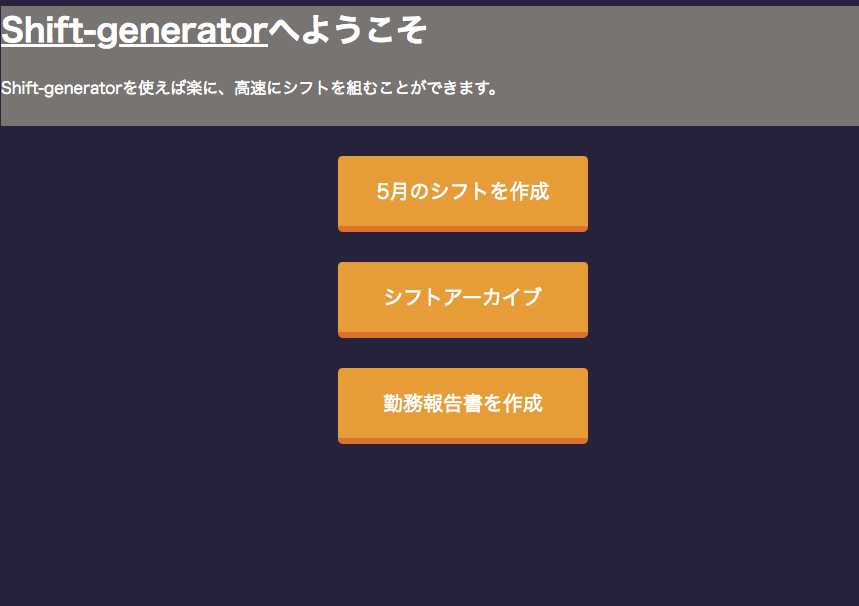
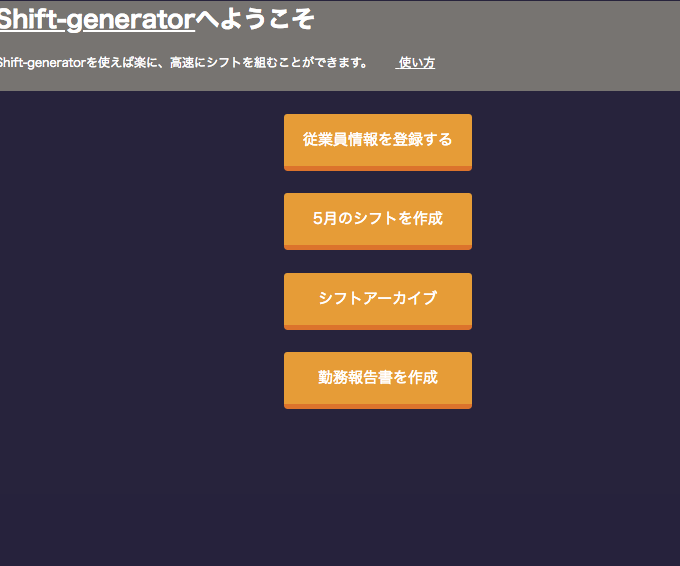
added and changed some files to send the shift that you made

Changed region(s): [[0.0, 0.0, 1.0, 0.7509], [0.5868, 0.0901, 0.6485, 0.1201]]

diff --git a/giovannitheproject/djsg/templates/djsg/register.html b/giovannitheproject/djsg/templates/djsg/register.html
@@ -13,37 +13,38 @@
 <p> ・セレクトボックス</p>
 
 <select name="sel_person" size="1" class="tgform" style="width:300px; margin-left: 20%" id="tgselect">
+    <option>ここに名前があれば登録済みです</option>
     {% for i in d %}
     <option value="{{i}}" >{{i}}</option>
     {% endfor %}
     </select>
 </div>
 
-
-<div class="tcsub">
-	<p> ・従業員情報登録フォーム</p>
+<p> ・従業員情報登録フォーム</p>
+<div class="tcsub" style="margin-left:7%;">
+	
 	
 <form action="timecard" method="post">
 	{% csrf_token %}
 	<div class="content">
         <h3>名前</h3>
           
-            姓 <input type="text" name="name" id="pname" />
+            姓 <input type="text" name="name" id="pname" required="required" placeholder="苗字を入力"/>
         
           
-            名 <input type="text" name="f_name" id="p_fname"/>
+            名 <input type="text" name="f_name" id="p_fname" required="required" placeholder="下の名前を入力"/>
         
     </div>
     <div class="content">
     	<h3>社員番号</h3>
     
-      		<input type="text" name="w_num" id="w_num" />
+      		<input type="text" name="w_num" id="w_num" size="30" required="required" pattern="[0-9][0-9][0-9][0-9][0-9][0-9][0-9]" placeholder="半角数字で社員番号を入力" />
     
     </div>
     <div class="content">
         <h3>メールアドレス</h3>
     
-         	<input type="text" name="mail" size="40" id="mail"/>
+         	<input type="mail" name="mail" size="40" id="mail" required="required" placeholder="読売のメールアドレスを入力"/>
       
     </div>
     	<input type="submit" value="登録する" name="b2" id ="tgsub" />

diff --git a/giovannitheproject/djsg/templates/djsg/index.html b/giovannitheproject/djsg/templates/djsg/index.html
@@ -4,7 +4,7 @@
 
 <ul class="indexul">
     <li>
-    	<a href="register">従業員情報を登録する</a>
+    	初めて利用する人は、最初にここから従業員情報を登録！⬇<a href="register">従業員情報を登録する</a>
     </li>	
     <li>
       <a href="sg">{{nextmonth}}月のシフトを作成</a>

diff --git a/README.md b/README.md
@@ -20,6 +20,10 @@ This app can help you generating the work shift and work report for parttimework
 ![TOP画面](https://github.com/drumgiovanni/shiftgenerator2/blob/master/assets/ss2.png)
 
 
+**初めてこのシステムを利用する際は、まず初めに、一番上の「従業員情報を登録する」をクリックし、従業員情報を登録してください！！**
+
+
+
 「○月分のシフト作成」を選択すると来月分のシフトの作成、「シフトアーカイブ」を選択すると今までに作成したシフトのダウンロード、「勤務報告書作成」を選択すると勤務報告書の作成ができます。
 
 ### シフト作成
